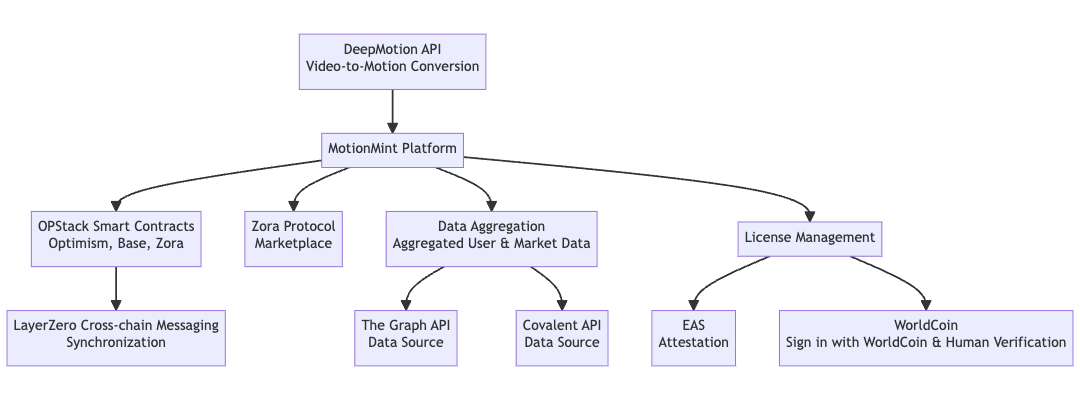
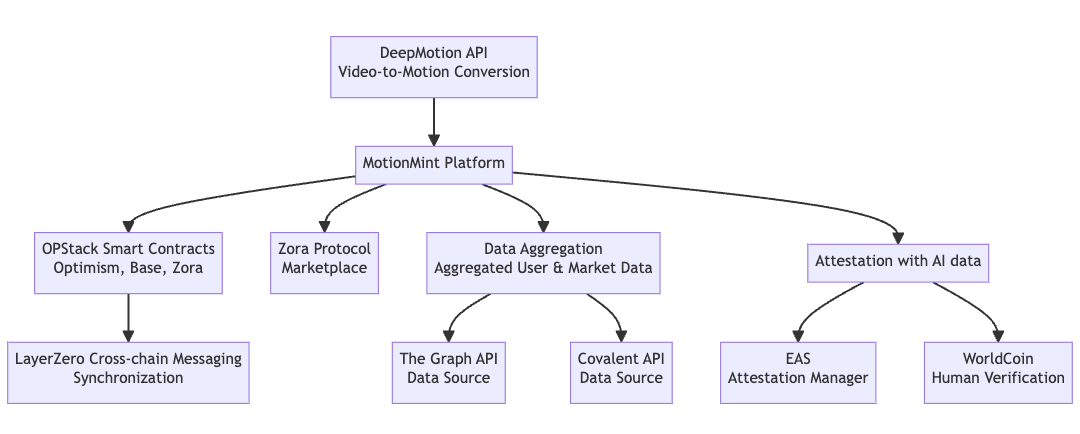
feat: change diagram

diff --git a/docs/spec/diagram.md b/docs/spec/diagram.md
@@ -6,13 +6,13 @@ B[DeepMotion API<br>Video-to-Motion Conversion]
 C[OPStack Smart Contracts<br>Optimism, Base, Zora]
 D[Zora Protocol<br>Marketplace]
 G[Data Aggregation<br>Aggregated User & Market Data]
-L[License Management]
+L[Attestation with AI data]
 
 F[LayerZero Cross-chain Messaging<br>Synchronization]
 J[The Graph API<br>Data Source]
 K[Covalent API<br>Data Source]
-E[EAS<br>Attestation]
-W[WorldCoin<br>Sign in with WorldCoin & Human Verification]
+E[EAS<br>Attestation Manager]
+W[WorldCoin<br>Human Verification]
 
 C --> F
 B --> A
